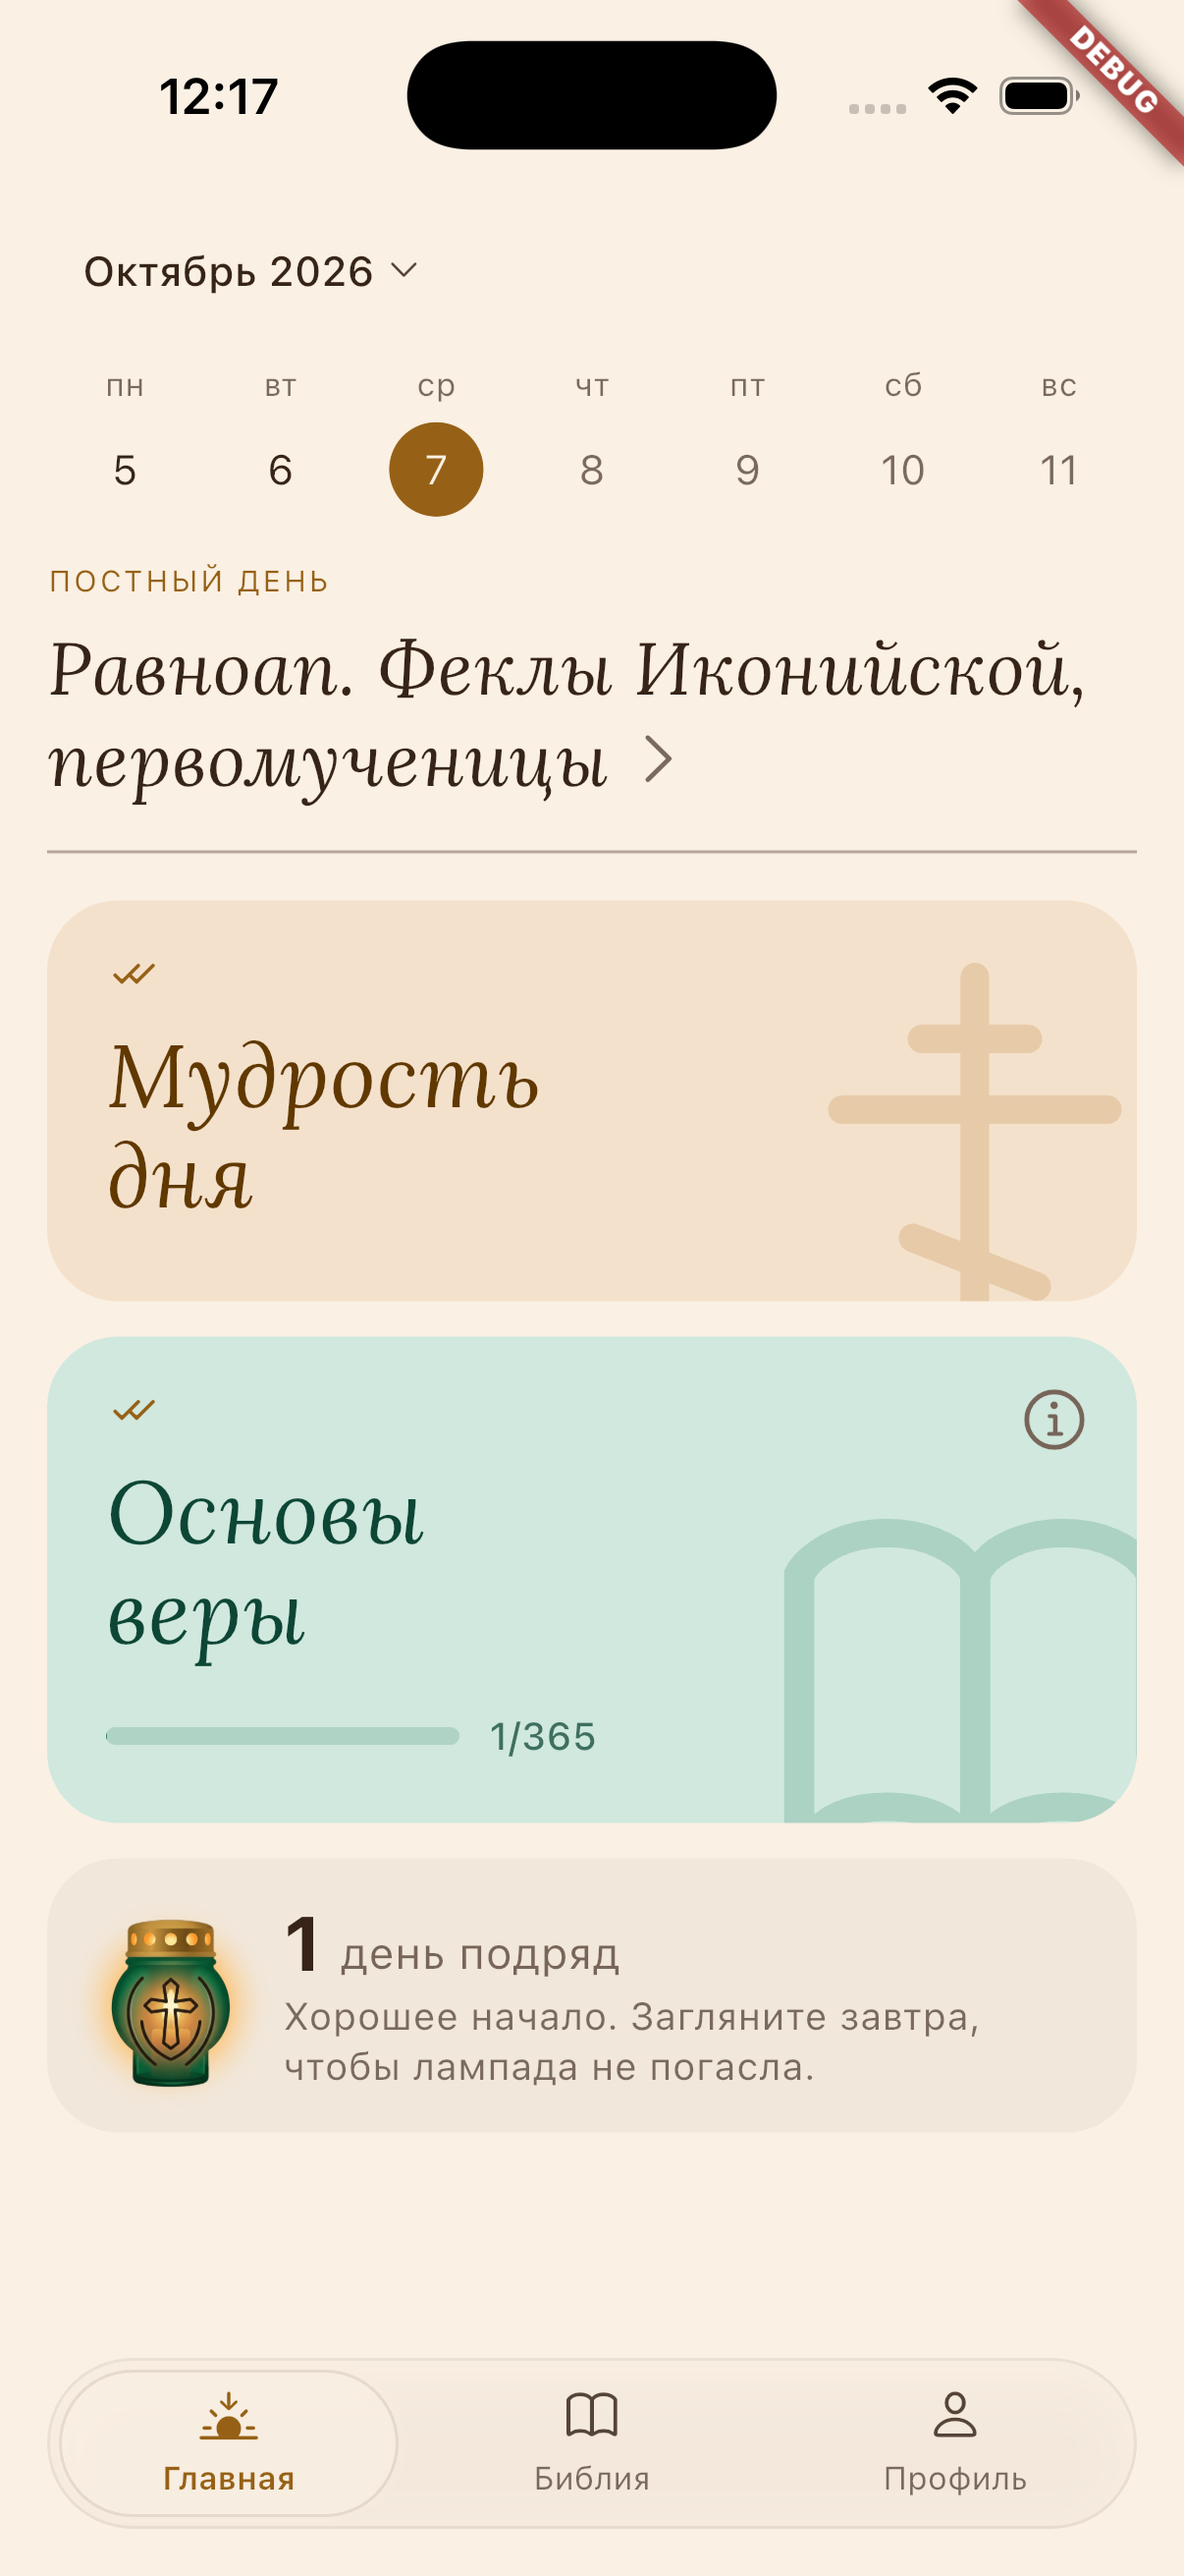
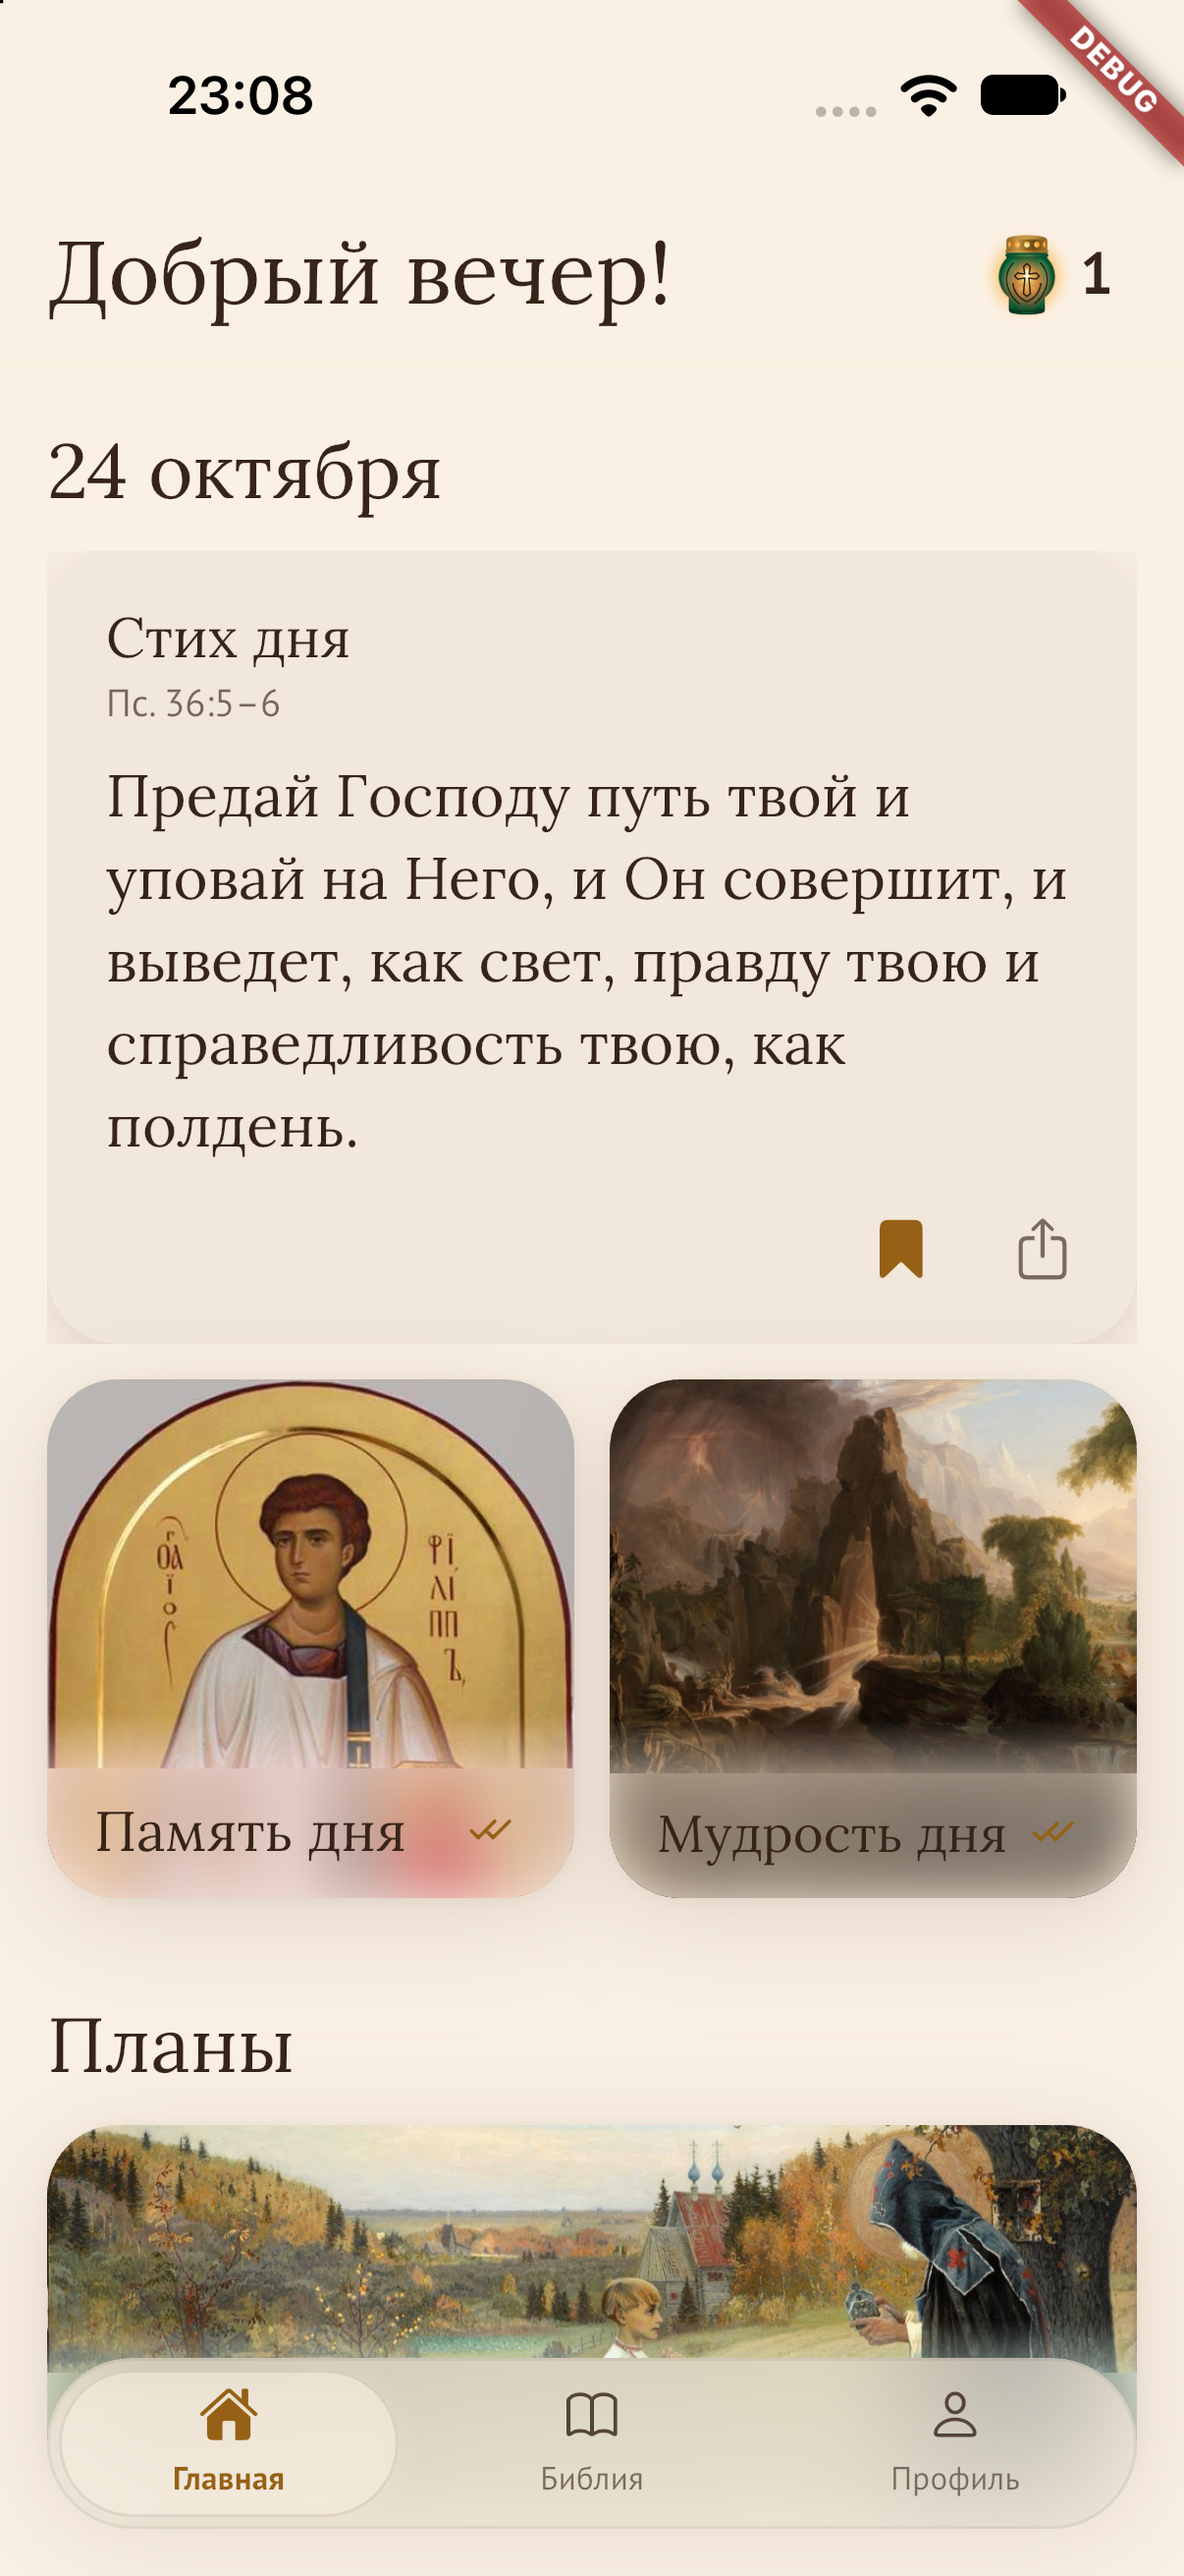
chore(release): 1.5.0+14

diff --git a/CHANGELOG.md b/CHANGELOG.md
@@ -1,6 +1,6 @@
 # Changelog
 
-## [1.5.0] - 2026-10-23
+## [1.5.0] - 2026-10-24
 
 - Главная стала проще: она всегда показывает сегодняшний день, без календаря и выбора даты.
 - Лента мягко уходит под шапку с приветствием, без резкой границы.
@@ -16,6 +16,10 @@
 - По точкам слева в читалках можно быстро листать пальцем, каждая страница отзывается лёгким щелчком.
 - Под стихом теперь видно, из какой он книги: «Деян. 20:35».
 - Новый шрифт подписей и кнопок, тексты набраны прямым шрифтом без курсива.
+- «Мудрость дня» запоминает, на чём вы остановились.
+- Стих дня можно сразу открыть в Библии, а после дневного чтения — продолжить читать дальше.
+- Читать, выделять, сохранять и отправлять понравившиеся отрывки стало удобнее.
+- Исправили ошибки и улучшили работу приложения.
 
 ## [1.4.0] - 2026-10-20
 
